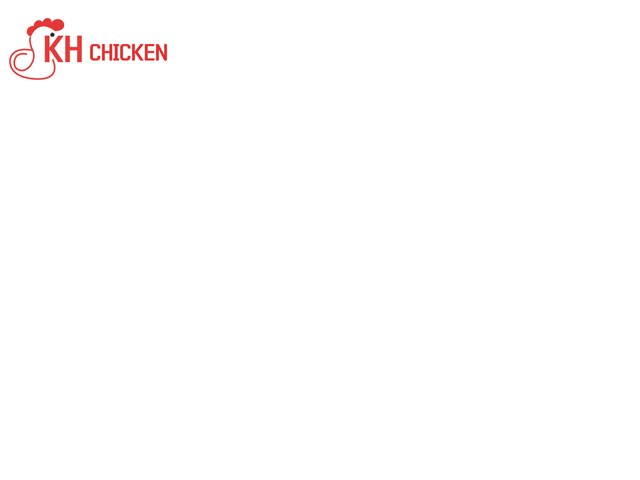
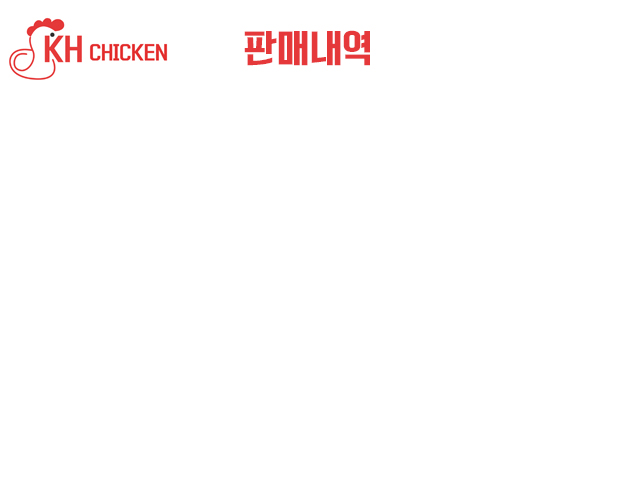
image2

Changed region(s): [[0.375, 0.0625, 0.5938, 0.1562]]

diff --git a/khChicken_client/src/client/view/manager/SaleManageView.java b/khChicken_client/src/client/view/manager/SaleManageView.java
@@ -1,10 +1,12 @@
 package client.view.manager;
 
 import java.awt.Color;
+import java.awt.Font;
 import java.awt.event.ActionEvent;
 import java.awt.event.ActionListener;
 import java.util.ArrayList;
 
+import javax.swing.ImageIcon;
 import javax.swing.JButton;
 import javax.swing.JComboBox;
 import javax.swing.JFrame;
@@ -36,11 +38,15 @@ public class SaleManageView extends JFrame implements ActionListener {
 	JButton backBtn; // 돌아가기 버튼
 	// 정렬 기준
 	private JComboBox<String> choiceList;
+	private static final String PATH = "images/manageView/";
 
 	public SaleManageView() {
 		super("판매 내역");
 		setLayout(null);
-
+		
+		setContentPane(new JLabel(new ImageIcon(PATH + "saleView.jpg")));
+		setResizable(false);
+		
 		model = new DefaultTableModel() {
 			@Override
 			public boolean isCellEditable(int row, int column) {
@@ -54,22 +60,23 @@ public class SaleManageView extends JFrame implements ActionListener {
 		setTableByDate();
 
 		jScrPane = new JScrollPane(jTable);
-		jScrPane.setBounds(10, 50, 600, 300);
+		jScrPane.setBounds(10, 80, 600, 300);
 		add(jScrPane);
 
-		JLabel label = new JLabel("판매 내역");
-		label.setBounds(10, 10, 120, 15);
-		add(label);
 
-		backBtn = new JButton("돌아가기");
-		backBtn.setBounds(500, 370, 90, 40);
+		backBtn = new JButton(new ImageIcon(PATH + "customerReturnBtn.jpg"));
+		backBtn.setBounds(520, 400, 90, 40);
 		backBtn.addActionListener(this);
 		add(backBtn);
 
+		JLabel label = new JLabel("정렬 기준 :");
+		label.setFont(new Font("다음_Regular", Font.PLAIN, 14));
+		label.setBounds(450, 50, 80, 20);
+		add(label);
 		// 정렬기준 바꾸기
 		String[] selects = new String[] { "날짜순", "매출순", "별점순" };
 		choiceList = new JComboBox<>(selects);
-		choiceList.setBounds(20, 380, 80, 20);
+		choiceList.setBounds(520, 50, 80, 20);
 		choiceList.addActionListener(this);
 		add(choiceList);
 

diff --git a/khChicken_client/src/client/view/manager/ManageView.java b/khChicken_client/src/client/view/manager/ManageView.java
@@ -32,36 +32,36 @@ public class ManageView extends JFrame implements ActionListener {
 	public ManageView() { 
 		super("매니저 창");
 		setLayout(null);
-		setContentPane(new JLabel(new ImageIcon(PATH + "manageView.jpg")));
+		setContentPane(new JLabel(new ImageIcon(PATH + "manageView2.jpg")));
 		setResizable(false);
 		
 		
 
 		btn_menu = new JButton(new ImageIcon(PATH + "menuManageBtn.png"));
-		btn_menu.setBounds(170, 60, 98, 50);
+		btn_menu.setBounds(200, 100, 98, 50);
 		btn_menu.addActionListener(this);
 		btn_menu.setBackground(Color.pink);
 		add(btn_menu);
 
 		btn_sale = new JButton(new ImageIcon(PATH + "saleManageBtn.png"));
-		btn_sale.setBounds(170, 120, 98, 50);
+		btn_sale.setBounds(200, 160, 98, 50);
 		btn_sale.addActionListener(this);
 		btn_sale.setBackground(Color.pink);
 		add(btn_sale);
 		
 		btn_customer = new JButton(new ImageIcon(PATH + "customerBtn.png"));
-		btn_customer.setBounds(170, 180, 98, 50);
+		btn_customer.setBounds(200, 220, 98, 50);
 		btn_customer.addActionListener(this);
 		btn_customer.setBackground(Color.pink);
 		add(btn_customer);
 
 		btn_back = new JButton(new ImageIcon(PATH + "returnBtn.png"));
-		btn_back.setBounds(170, 240, 98, 50);
+		btn_back.setBounds(200, 280, 98, 50);
 		btn_back.addActionListener(this);
 		btn_back.setBackground(Color.white);
 		add(btn_back);
 
-		setBounds(100, 100, 300, 350);
+		setBounds(100, 100, 350, 400);
 		getContentPane().setBackground(Color.black);
 		setVisible(true);
 

diff --git a/khChicken_client/src/client/view/manager/CustomerManageView.java b/khChicken_client/src/client/view/manager/CustomerManageView.java
@@ -70,11 +70,11 @@ public class CustomerManageView extends JFrame implements ActionListener {
 		String str = e.getActionCommand();
 		Singleton s = Singleton.getInstance();
 
-		if (str.equals("메인으로")) {
+		if (str.equals("돌아가기")) {
 			s.getMemCtrl().manageView(this);
 		} else if (str.equals("뒤로")) {
 			setTableByCustomerOrder();
-			backBtn.setText("메인으로");
+			backBtn.setText("돌아가기");
 		}
 
 	}
